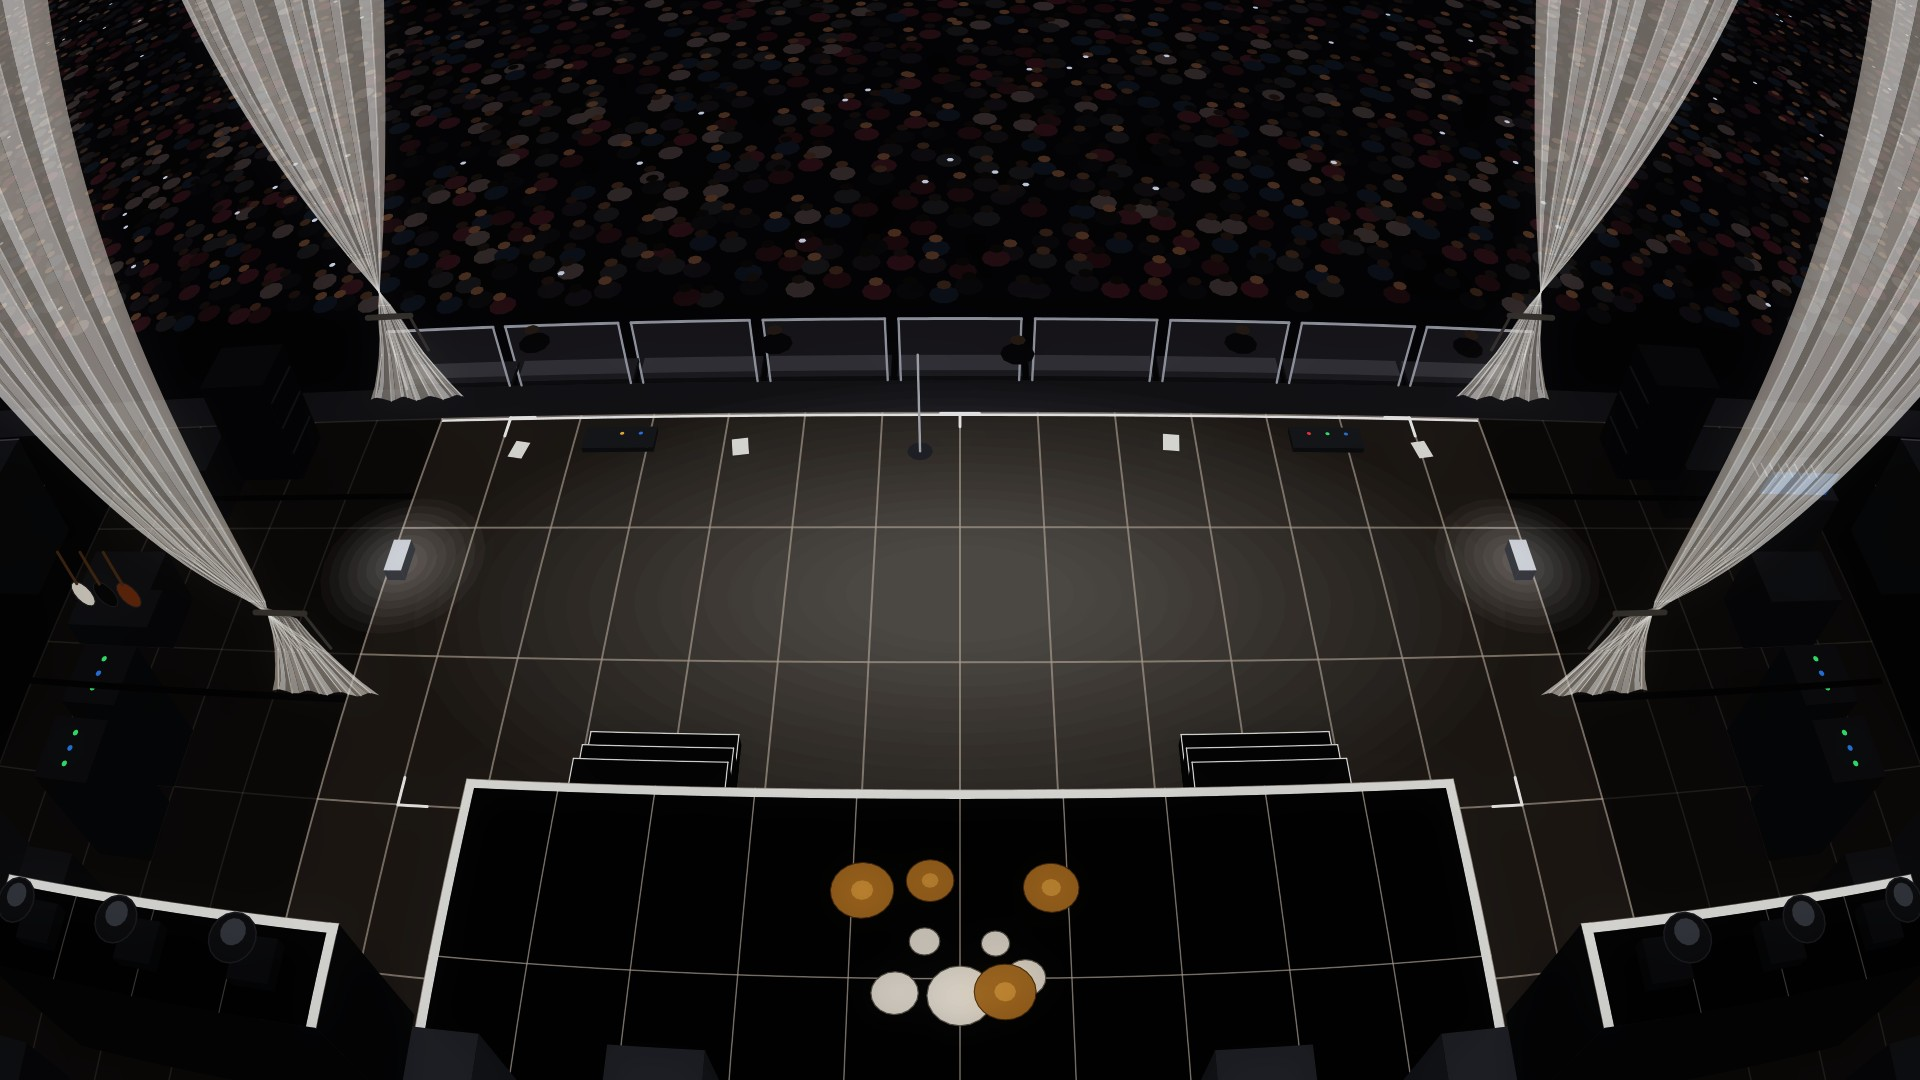
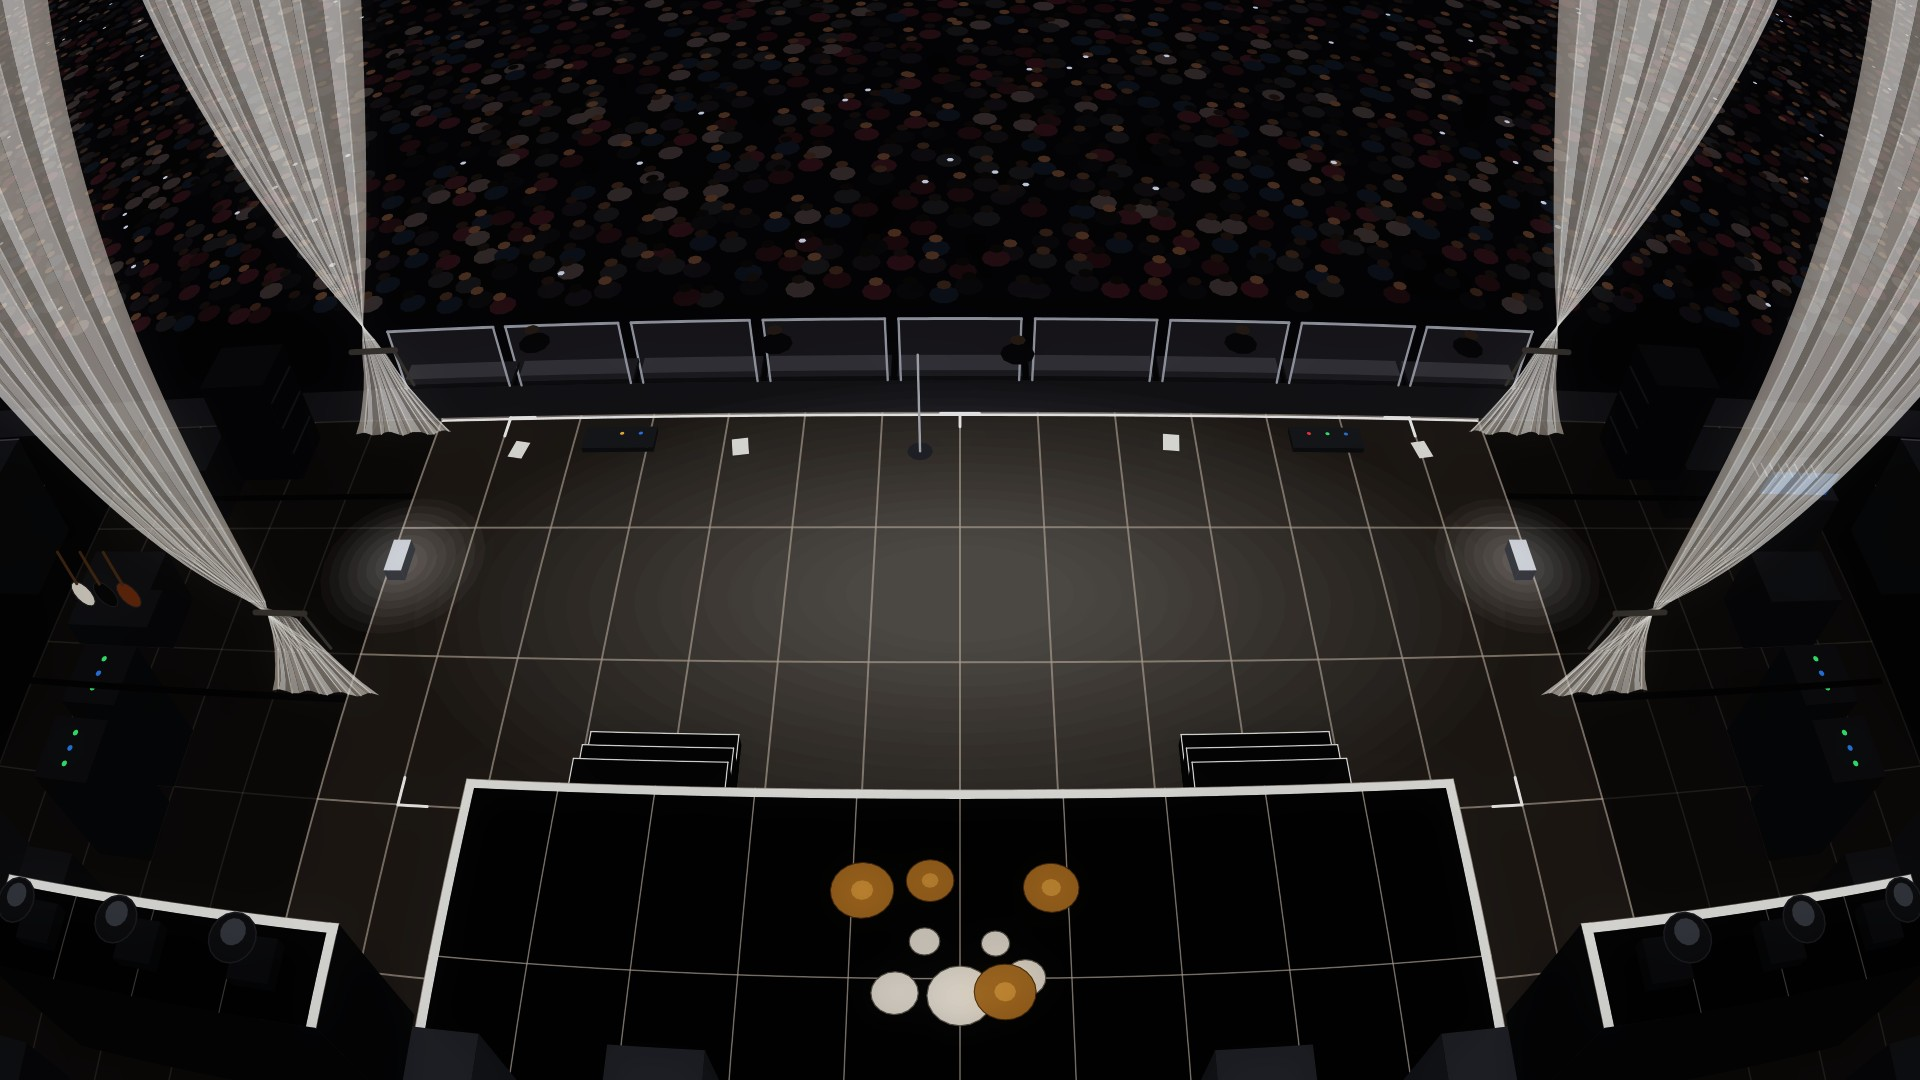
chore(gallery): hang the Concert's front legs at the stage edge

Changed region(s): [[0.75, 0.0, 0.9375, 0.4278], [0.0625, 0.0, 0.25, 0.4278]]

diff --git a/scripts/gen_concert_default.py b/scripts/gen_concert_default.py
@@ -57,7 +57,7 @@ LEG_TOP, LEG_KNOT = 11.0, 1.5  # leg height and tie-back height
 # Two tied-back legs per side: plane (y), outer and inner edge at the top, the tie (x, this side), and
 # whether the cloth falls straight from the top and curves only toward the tie (the downstage pair).
 LEGS = (
-    (LIP_Y - 0.4, STAGE_X + 2.5, STAGE_X - 1.2, STAGE_X + 0.5, True),
+    (LIP_Y + 0.3, STAGE_X + 2.5, STAGE_X - 1.2, STAGE_X + 0.5, True),
     (4.6, STAGE_X + 4.5, STAGE_X - 0.4, STAGE_X + 0.3, False),
 )
 GRID_W, GRID_D, GRID_SPACING = 12.0, 6.0, 2.0  # grid lines on every second deck seam, lip to riser
